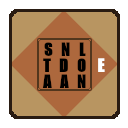
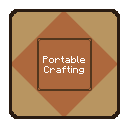
Make client side optional

Changed region(s): [[0.3125, 0.3125, 0.6875, 0.6875], [0.75, 0.4375, 0.8438, 0.5625]]

diff --git a/src/main/java/folk/sisby/portable_crafting/PortableCrafting.java b/src/main/java/folk/sisby/portable_crafting/PortableCrafting.java
@@ -1,47 +1,45 @@
 package folk.sisby.portable_crafting;
 
-import folk.sisby.portable_crafting.compat.inventory_tabs.PortableCraftingTab;
-import folk.sisby.portable_crafting.screens.PortableCraftingScreenHandler;
 import net.fabricmc.api.ModInitializer;
 import net.fabricmc.fabric.api.networking.v1.ServerPlayNetworking;
-import net.fabricmc.loader.api.FabricLoader;
 import net.minecraft.entity.player.PlayerEntity;
 import net.minecraft.item.Item;
+import net.minecraft.screen.CraftingScreenHandler;
 import net.minecraft.screen.ScreenHandlerContext;
 import net.minecraft.screen.SimpleNamedScreenHandlerFactory;
+import net.minecraft.server.network.ServerPlayerEntity;
 import net.minecraft.tag.TagKey;
+import net.minecraft.text.TranslatableText;
 import net.minecraft.util.Identifier;
 import net.minecraft.util.registry.Registry;
+import org.jetbrains.annotations.Nullable;
 import org.slf4j.Logger;
 import org.slf4j.LoggerFactory;
 
 @SuppressWarnings("deprecation")
 public class PortableCrafting implements ModInitializer {
 	public static final String ID = "portable_crafting";
-	public static final Logger LOGGER = LoggerFactory.getLogger("Portable Crafting");
+	public static final Logger LOGGER = LoggerFactory.getLogger(ID);
 
 	public static final TagKey<Item> CRAFTING_TABLES = TagKey.of(Registry.ITEM_KEY, new Identifier(ID, "crafting_tables"));
 	public static final Identifier C2S_OPEN_PORTABLE_CRAFTING = new Identifier(ID, "c2s_open_portable_crafting");
 
-	public static boolean is_allowed(PlayerEntity player) {
-		return player.getInventory().m_agfxrwtb(CRAFTING_TABLES); // If tag in inventory
+	public static boolean canUse(@Nullable PlayerEntity player) {
+		return player != null && player.getInventory().m_agfxrwtb(CRAFTING_TABLES);
+	}
+
+	public static void openCrafting(PlayerEntity player) {
+		if (player instanceof ServerPlayerEntity spe) {
+			spe.closeHandledScreen();
+			spe.openHandledScreen(new SimpleNamedScreenHandlerFactory((i, inv, p) -> new CraftingScreenHandler(i, inv, ScreenHandlerContext.create(p.getWorld(), p.getBlockPos())), new TranslatableText("container.crafting")));
+		}
 	}
 
 	@Override
 	public void onInitialize() {
-		LOGGER.info("[Portable Crafting] Initializing!");
-
-		if (FabricLoader.getInstance().isModLoaded("inventorytabs")) {
-			PortableCraftingTab.touch();
-		}
-
-		PortableCraftingScreenHandler.touch();
-
 		ServerPlayNetworking.registerGlobalReceiver(C2S_OPEN_PORTABLE_CRAFTING, (server, player, handler, buf, sender) -> server.execute(() -> {
-			if (PortableCrafting.is_allowed(player)) {
-				player.closeHandledScreen();
-				player.openHandledScreen(new SimpleNamedScreenHandlerFactory((i, inv, p) -> new PortableCraftingScreenHandler(i, inv, ScreenHandlerContext.create(p.getWorld(), p.getBlockPos())), PortableCraftingScreenHandler.LABEL));
-			}
+			if (canUse(player)) openCrafting(player);
 		}));
+		LOGGER.info("[Portable Crafting] Initialised!");
 	}
 }

diff --git a/src/main/java/folk/sisby/portable_crafting/PortableCraftingClient.java b/src/main/java/folk/sisby/portable_crafting/PortableCraftingClient.java
@@ -1,51 +1,40 @@
 package folk.sisby.portable_crafting;
 
 import com.mojang.blaze3d.platform.InputUtil;
-import folk.sisby.portable_crafting.screens.PortableCraftingScreen;
 import net.fabricmc.api.ClientModInitializer;
 import net.fabricmc.fabric.api.client.event.lifecycle.v1.ClientTickEvents;
 import net.fabricmc.fabric.api.client.keybinding.v1.KeyBindingHelper;
 import net.fabricmc.fabric.api.client.networking.v1.ClientPlayNetworking;
 import net.fabricmc.fabric.api.networking.v1.PacketByteBufs;
-import net.fabricmc.loader.api.FabricLoader;
+import net.minecraft.client.MinecraftClient;
 import net.minecraft.client.option.KeyBind;
 import org.lwjgl.glfw.GLFW;
-import org.slf4j.Logger;
-import org.slf4j.LoggerFactory;
 
 import static folk.sisby.portable_crafting.PortableCrafting.C2S_OPEN_PORTABLE_CRAFTING;
 
 @SuppressWarnings("deprecation")
 public class PortableCraftingClient implements ClientModInitializer {
-	public static final Logger LOGGER = LoggerFactory.getLogger("Portable Crafting Client");
-	public static KeyBind keyBinding;
+	public static KeyBind keyBinding = KeyBindingHelper.registerKeyBinding(new KeyBind(
+		"key.portable_crafting.open_crafting_table",
+		InputUtil.Type.KEYSYM,
+		GLFW.GLFW_KEY_V,
+		"key.categories.inventory"
+	));
 
 	public static void openCraftingTable() {
-		ClientPlayNetworking.send(C2S_OPEN_PORTABLE_CRAFTING, PacketByteBufs.empty());
+		if (ClientPlayNetworking.canSend(C2S_OPEN_PORTABLE_CRAFTING) && PortableCrafting.canUse(MinecraftClient.getInstance().player)) {
+			ClientPlayNetworking.send(C2S_OPEN_PORTABLE_CRAFTING, PacketByteBufs.empty());
+		}
 	}
 
 	@Override
 	public void onInitializeClient() {
-		LOGGER.info("[Portable Crafting Client] Initializing!");
-
-		PortableCraftingScreen.touch();
-
-		if (FabricLoader.getInstance().isModLoaded("inventorytabs")) {
-			PortableCraftingScreen.TABS_COMPAT = true;
-		}
-
-		PortableCraftingClient.keyBinding = KeyBindingHelper.registerKeyBinding(new KeyBind(
-				"key.portable_crafting.open_crafting_table",
-				InputUtil.Type.KEYSYM,
-				GLFW.GLFW_KEY_V,
-				"key.categories.inventory"
-		));
-
-		ClientTickEvents.END_CLIENT_TICK.register(level -> {
-			if (keyBinding == null || level == null) return;
+		ClientTickEvents.END_CLIENT_TICK.register(world -> {
+			if (keyBinding == null || world == null) return;
 			while (keyBinding.wasPressed()) {
 				openCraftingTable();
 			}
 		});
+		PortableCrafting.LOGGER.info("[Portable Crafting Client] Initialised!");
 	}
 }

diff --git a/src/main/java/folk/sisby/portable_crafting/mixin/MixinItemStack.java b/src/main/java/folk/sisby/portable_crafting/mixin/MixinItemStack.java
@@ -1,0 +1,25 @@
+package folk.sisby.portable_crafting.mixin;
+
+import folk.sisby.portable_crafting.PortableCrafting;
+import net.minecraft.entity.player.PlayerEntity;
+import net.minecraft.item.ItemStack;
+import net.minecraft.util.Hand;
+import net.minecraft.util.TypedActionResult;
+import net.minecraft.world.World;
+import org.spongepowered.asm.mixin.Mixin;
+import org.spongepowered.asm.mixin.injection.At;
+import org.spongepowered.asm.mixin.injection.Inject;
+import org.spongepowered.asm.mixin.injection.callback.CallbackInfoReturnable;
+
+@Mixin(ItemStack.class)
+public class MixinItemStack {
+	@Inject(method = "use", at = @At("HEAD"), cancellable = true)
+	public void allowUsingCraftingTables(World world, PlayerEntity player, Hand hand, CallbackInfoReturnable<TypedActionResult<ItemStack>> cir) {
+		ItemStack self = (ItemStack) (Object) this;
+		if (self.isIn(PortableCrafting.CRAFTING_TABLES)) {
+			PortableCrafting.openCrafting(player);
+			cir.setReturnValue(TypedActionResult.success(self, false));
+			cir.cancel();
+		}
+	}
+}

diff --git a/src/main/java/folk/sisby/portable_crafting/mixin/MixinCraftingScreenHandler.java b/src/main/java/folk/sisby/portable_crafting/mixin/MixinCraftingScreenHandler.java
@@ -1,0 +1,20 @@
+package folk.sisby.portable_crafting.mixin;
+
+import folk.sisby.portable_crafting.PortableCrafting;
+import net.minecraft.entity.player.PlayerEntity;
+import net.minecraft.screen.CraftingScreenHandler;
+import org.spongepowered.asm.mixin.Mixin;
+import org.spongepowered.asm.mixin.injection.At;
+import org.spongepowered.asm.mixin.injection.Inject;
+import org.spongepowered.asm.mixin.injection.callback.CallbackInfoReturnable;
+
+@Mixin(CraftingScreenHandler.class)
+public class MixinCraftingScreenHandler {
+	@Inject(method = "canUse", at = @At("HEAD"), cancellable = true)
+	public void allowUsingCraftingTables(PlayerEntity player, CallbackInfoReturnable<Boolean> cir) {
+		if (PortableCrafting.canUse(player)) {
+			cir.setReturnValue(true);
+			cir.cancel();
+		}
+	}
+}
